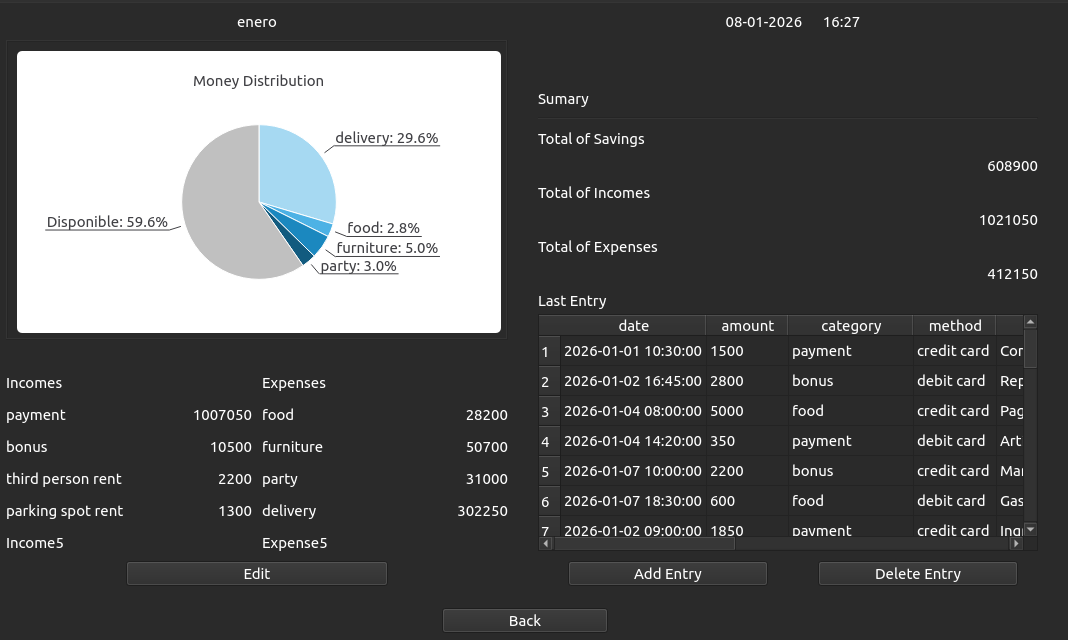
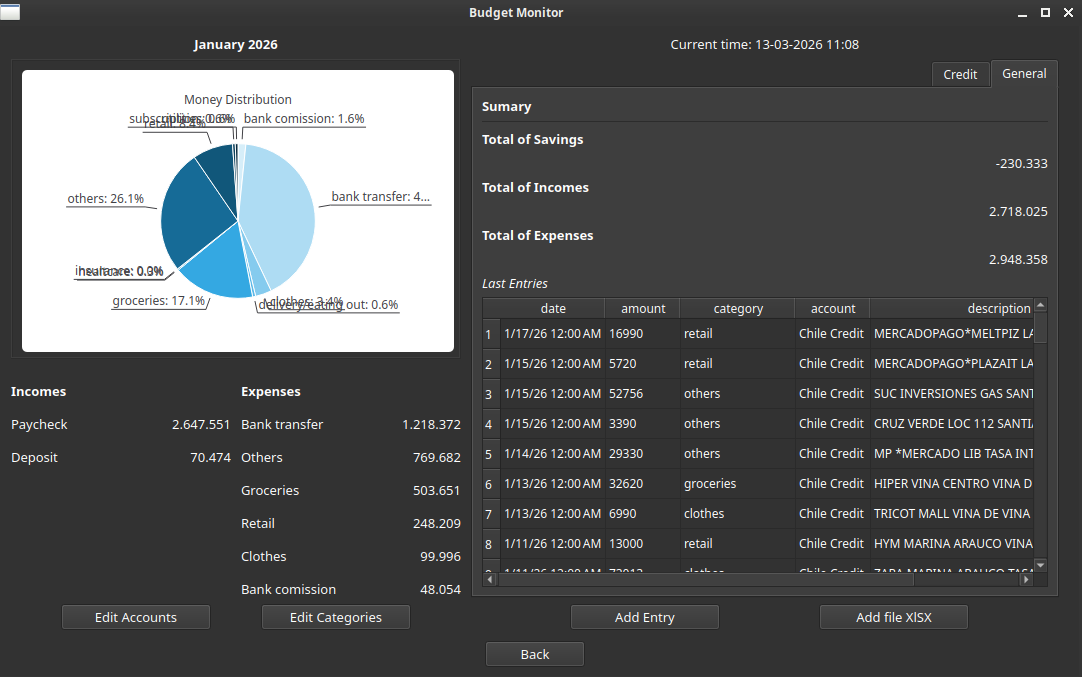
release: release v3.0.0, credit card preview, flexible period in saving view, new user settings

diff --git a/README.md b/README.md
@@ -8,6 +8,7 @@ A desktop application for personal finance management built with Qt6 and C++. Tr
 - **Category-based Organization**: Separate income and expense categories
 - **Visual Analytics**: Pie chart visualization of expense distribution
 - **Monthly View**: Analyze transactions by month and yearly Savings.
+- **Credit Cards preview**: Analyze usage and future payments.
 - **Real-time Updates**: Dashboard updates automatically when new transactions are added
 - **Multiple Payment Methods**: Support for different payment accounts
 - **User Accounts**: Login, signup, and auto-login via Supabase authentication
@@ -16,6 +17,7 @@ A desktop application for personal finance management built with Qt6 and C++. Tr
 
 
 ## Screenshot
+![Login UI](./imgs/ui_login.png)
 ![Month View UI](./imgs/ui_MonthView.png)
 
 ## Technical Stack
@@ -37,10 +39,12 @@ budget_monitor/
 ├── include/            # Header files
 │   ├── database/       # Database manager and worker headers
 │   ├── dialogs/        # Dialog headers
+│   ├── reportservice/  # Compute methods header
 │   ├── views/          # Main window headers
 │   └── widgets/        # Widget headers (Dashboard)
 ├── src/                # Source files
 │   ├── database/       # Database manager and worker implementations
+│   ├── reportservice/  # Compute Summaries and total by card
 │   ├── dialogs/        # Dialog implementations
 │   ├── views/          # View implementations
 │   └── widgets/        # Widget implementations
@@ -54,11 +58,11 @@ budget_monitor/
 The application uses three main tables (all scoped per user):
 
 - **money_transactions**: Stores all financial transactions
-  - `id`, `user_id`, `date`, `amount`, `category_id` (FK), `account_id` (FK), `description`
+  - `id`, `user_id`, `date`, `amount`, `category_id` (FK), `account_id` (FK), `description`, `original_description`
 - **categories**: Income and expense categories
-  - `id`, `user_id`, `name`, `type` (income/expense)
+  - `id`, `user_id`, `name`, `type` (income/expense/transfer)
 - **accounts**: Available payment accounts
-  - `id`, `user_id`, `name`
+  - `id`, `user_id`, `name`, `type`, `limit`
 
 ## Building from Source
 
@@ -105,6 +109,7 @@ DB_PASSWORD=your-db-password
 # Supabase authentication
 SUPABASE_URL=https://your-project-ref.supabase.co
 SUPABASE_ANON_KEY=your-anon-key
+SUPABASE_SERVICE_ROLE_KEY=your-service-role-key
 ```
 
 You can find these values in your Supabase dashboard under **Project Settings > Database** and **Project Settings > API**.
@@ -134,24 +139,25 @@ cmake --build .
 ## Usage
 
 1. **Launch Application**:
-   - Click "Current Month" to access the current dashboard
-   - Click "Savings" to access the yearly savings analysis
-   - Click "Past Month" to access the month view of selected month
-2. **View Dashboard**: See monthly summary with an income/expense breakdown
+   - Click "Current Month" to access the current dashboard.
+   - Click "Credit Card preview" to access the your credit card usage and future payments.
+   - Click "Savings" to access the yearly savings analysis.
+   - Click "Past Month" to access the month view of selected month.
+2. **View Dashboard**: See monthly summary with an income/expense breakdown and credit card usage.
 3. **Add Transaction**: Click "Add Entry" button
-   - Select transaction type (Income/Expense)
-   - Choose category and payment method
-   - Enter amount and description
-   - Click OK to save
+   - Enter amount and description.
+   - Choose category and payment method.
+   - Write description.
+   - Click OK to save.
 4. **Add XLSX**: Click "Add XLSX file" button
-   - Select Account (Account must match your file)
-   - Add file path
-   - Click OK to save
+   - Select Account **(Account must match your file)**.
+   - Add file path.
+   - Click OK to save.
 5. **Edit Table**: Double click on a transaction
    - Modify fields and press "OK" button
    - Press "Delete" to remove the transaction
 6. **Edit Category**: Click "Edit" button
-   - Press "+" to add Income/Expense/Account category
+   - Press "+" to add Income/Expense category
    - Press "-" to remove category (Be careful with this action)
    - Double-click on categories to rename them
 7. **View Analytics**: Pie chart shows expense distribution
@@ -162,7 +168,7 @@ cmake --build .
 - [x] User authentication (Supabase)
 - [x] XLSX bank statement import with auto-classification
 - [x] Remote database integration (Supabase)
-- [ ] Date range filtering
+- [x] Date range filtering
 - [ ] Export to PDF
 - [ ] Budget goals and alerts
 - [ ] Multi-currency support
